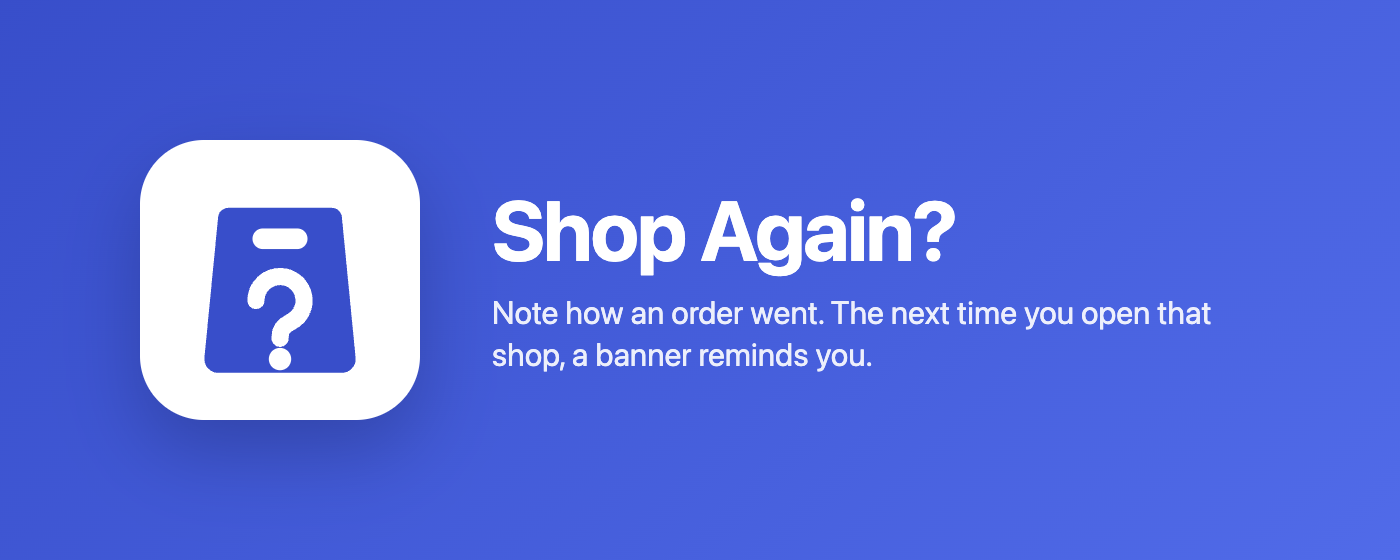
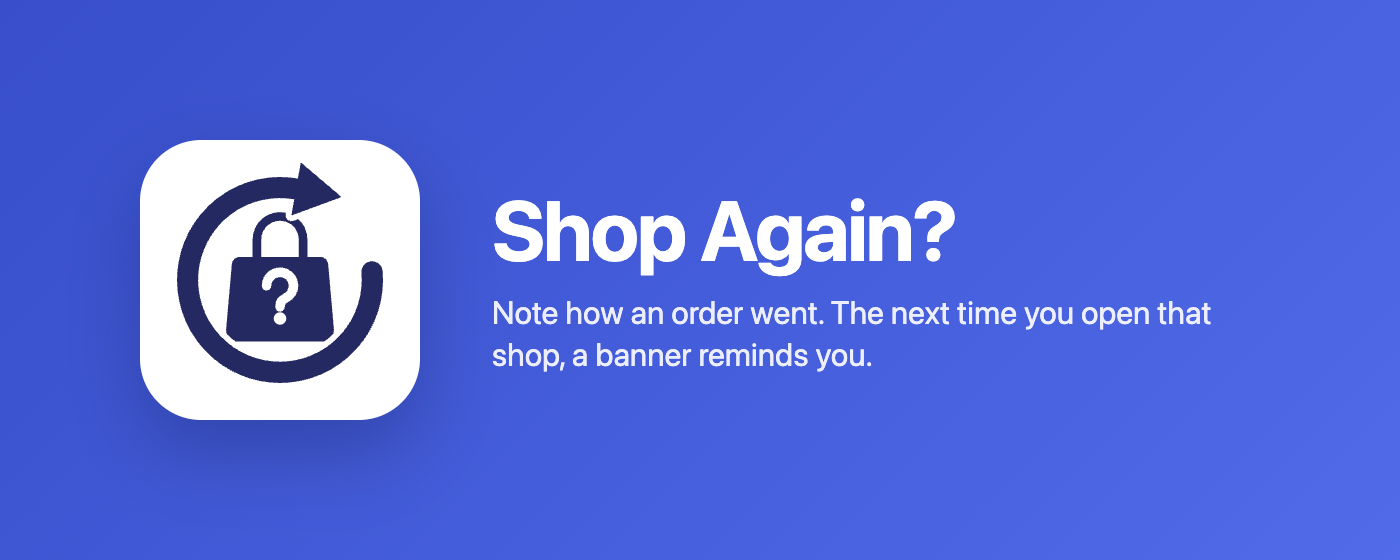
feat: a new mark, the bag alone in the toolbar sizes
A circular arrow for "again" around the shopping bag with the question
in it, in one dark blue on a white rounded square, so the blue never
sits on a dark toolbar or a dark store page. The toolbar sizes show the
bag alone, because the arrow turns to mush below 48 pixels.

The SVGs move from store/ to assets/, inside the build, so the banner
script can import the small mark. icons.sh renders public/icon and the
Edge logo from them, and the promo tiles and the screenshot frame take
the full mark from there.

Changed region(s): [[0.1229, 0.3036, 0.2764, 0.6982]]

diff --git a/store/promo/marquee.html b/store/promo/marquee.html
@@ -22,19 +22,18 @@
         color: #fff;
         font-family: -apple-system, system-ui, 'Segoe UI', sans-serif;
       }
+      /* The icon brings its own white square, so it only needs a shadow. */
       .badge {
-        display: grid;
-        place-items: center;
         flex: none;
         inline-size: 280px;
         block-size: 280px;
-        border-radius: 64px;
-        background: #fff;
+        border-radius: 61px;
         box-shadow: 0 32px 80px rgba(10, 30, 90, 0.35);
       }
       .badge img {
-        inline-size: 220px;
-        block-size: 220px;
+        display: block;
+        inline-size: 280px;
+        block-size: 280px;
       }
       h1 {
         margin: 0;
@@ -54,7 +53,7 @@
     </style>
   </head>
   <body>
-    <div class="badge"><img src="../icon.svg" alt="" /></div>
+    <div class="badge"><img src="../../assets/icon.svg" alt="" /></div>
     <div>
       <h1>Shop Again?</h1>
       <p>Note how an order went. The next time you open that shop, a banner reminds you.</p>

diff --git a/store/promo/tile.html b/store/promo/tile.html
@@ -22,19 +22,18 @@
         color: #fff;
         font-family: -apple-system, system-ui, 'Segoe UI', sans-serif;
       }
+      /* The icon brings its own white square, so it only needs a shadow. */
       .badge {
-        display: grid;
-        place-items: center;
         flex: none;
         inline-size: 120px;
         block-size: 120px;
-        border-radius: 28px;
-        background: #fff;
+        border-radius: 26px;
         box-shadow: 0 16px 40px rgba(10, 30, 90, 0.35);
       }
       .badge img {
-        inline-size: 94px;
-        block-size: 94px;
+        display: block;
+        inline-size: 120px;
+        block-size: 120px;
       }
       h1 {
         margin: 0;
@@ -53,7 +52,7 @@
     </style>
   </head>
   <body>
-    <div class="badge"><img src="../icon.svg" alt="" /></div>
+    <div class="badge"><img src="../../assets/icon.svg" alt="" /></div>
     <div>
       <h1>Shop Again?</h1>
       <p>Your own notes on web shops, shown when you come back.</p>

diff --git a/store/README.md b/store/README.md
@@ -6,7 +6,7 @@ Everything the three stores ask for, so a release is uploads and form filling. T
 
 | File | Is |
 |---|---|
-| `icon.svg` | The icon. `icons.sh` renders `public/icon/*.png` and `images/logo-300.png` from it |
+| `icons.sh` | Renders `public/icon/*.png` and `images/logo-300.png` from `assets/icon.svg` and `assets/icon-small.svg`, which live in `assets/` because the banner draws the small mark from the same file |
 | `listing.en.md`, `listing.da.md` | Name, short description, summary, description and search terms, per language |
 | `demo-shop/` | A fictional shop the screenshots are taken on |
 | `promo/` | The promotional tiles as HTML, rendered by `screenshots.mjs` |
@@ -92,4 +92,3 @@ The same answers go to Chrome and Edge, and Firefox asks for a subset.
 - The name is "Shop Again?", decided 2026-10-09. The question mark goes wherever the name is written for people: listings, texts, images and the extension's own pages. Identifiers carry none of it: `shop-again` in the package name, the add-on ID, the export file name and the repository. The closest trademark is SHOPAGAIN, US registration 7253456 (LatticeAI Inc., classes 35 and 42, registered 2023-12-26), a retention marketing platform for Shopify stores. Its app left the Shopify App Store in July 2025, its sites are down, and its North Carolina registration was revoked in November 2024, so a complaint is not expected. The registration itself stands until its maintenance filing falls due in 2029, so the name cannot be registered in the US before then. The other marks with the words are an Italian E-SHOPAGAIN from 2001 and a French second-hand retail chain from 2023.
 - The repository has to be public, or the privacy policy and the homepage need another address.
 - A license file in the repository, MIT is the obvious one, because Firefox asks for one and a public repository needs one.
-- Rendered icons in `public/icon/` from `icons.sh`, not the WXT placeholders.

diff --git a/README.md b/README.md
@@ -67,4 +67,4 @@ npm run build:firefox    # .output/firefox-mv3
 
 ## Releasing
 
-Bump the version in `package.json`, move the changes in `CHANGELOG.md` to a release section, tag `vX.Y.Z`, build the zips and upload them. The listing texts, the images and the steps for each store are in [store/README.md](store/README.md). The icons are rendered from `store/icon.svg` with `store/icons.sh`.
+Bump the version in `package.json`, move the changes in `CHANGELOG.md` to a release section, tag `vX.Y.Z`, build the zips and upload them. The listing texts, the images and the steps for each store are in [store/README.md](store/README.md). The icons are rendered from `assets/icon.svg` and `assets/icon-small.svg` with `store/icons.sh`.
